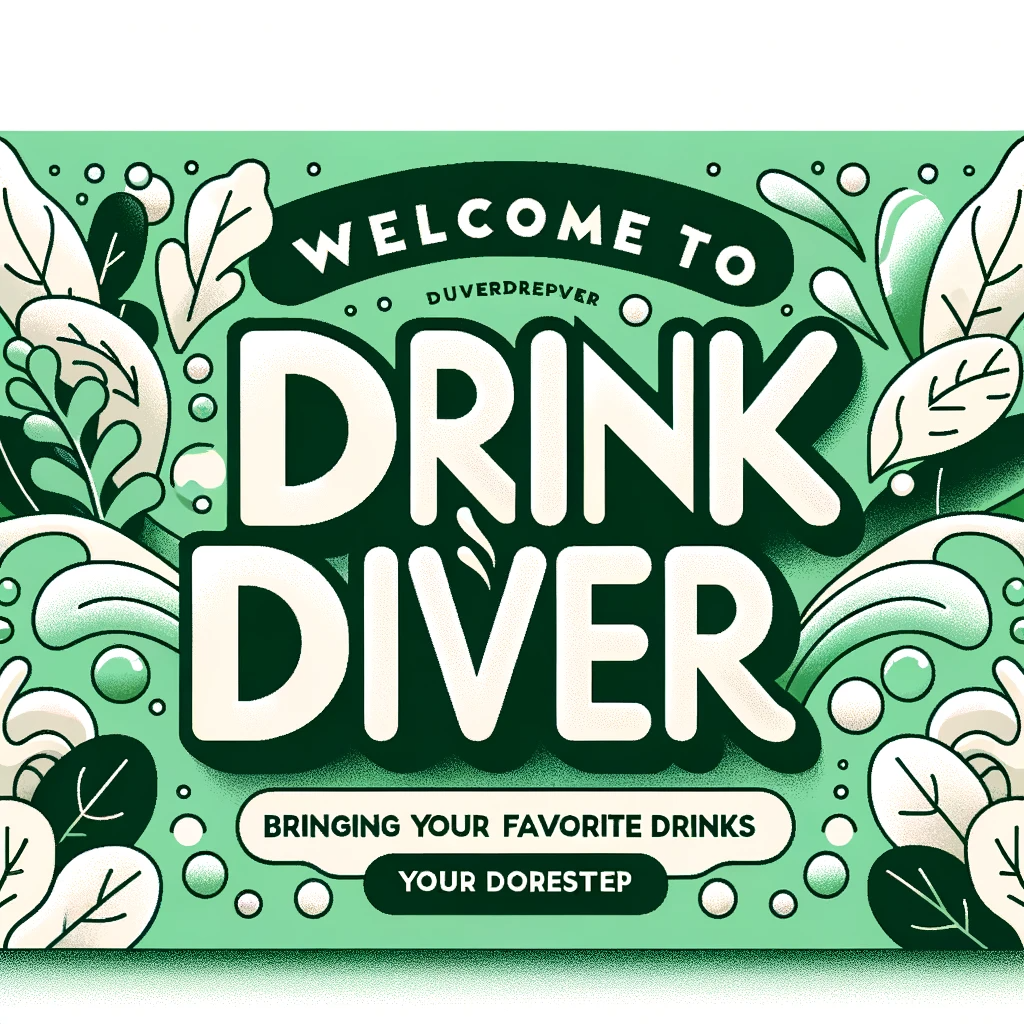
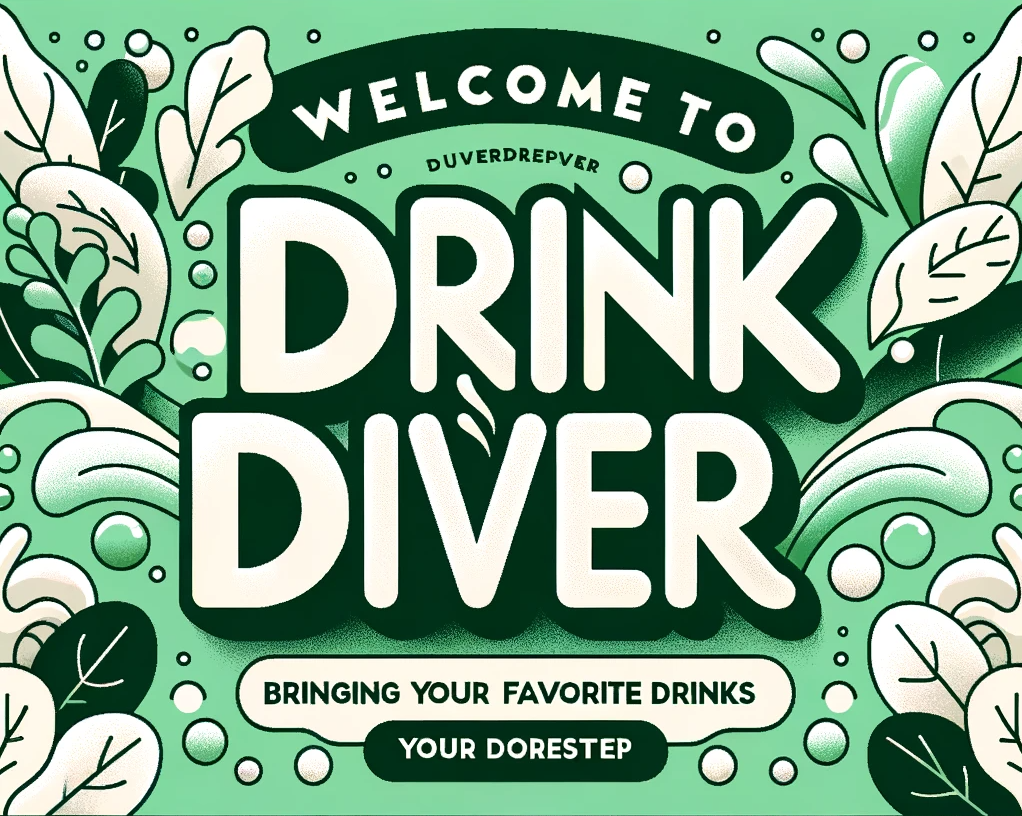
changes to home page and add styling

diff --git a/src/components/Home.js b/src/components/Home.js
@@ -3,20 +3,24 @@ import { Link } from "react-router-dom"
 export default function Home() {
     return (
         <div>
-            <h1>Home</h1>
-            <img src="./images/Welcome.png" alt="Welcome"/>
-            <div>
-                <Link to={'/vendors'}>
-                    <button>View Vendors</button>
+            <img src= {require("./images/Welcome.png")} height={ 350 } width={ 400 } alt="Welcome" className="welcome"/>
+            
+            <div className="home">
+                <br />
+                <Link to={'/vendors'} className="link">
+                    View Vendors
                 </Link>
-                <Link to={'/brews'}>
-                    <button>House Brews</button>
+                <br />
+                <Link to={'/brews'} className="link">
+                    House Brews
                 </Link>
-                <Link to={'/about'}>
-                    <button>About</button>
+                <br />
+                <Link to={'/about'} className="link">
+                    About
                 </Link>
-                <Link to={'/signup'}>
-                    <button>Don't have an account? Sign up here!</button>
+                <br />
+                <Link to={'/signup'} className="link">
+                    Don't have an account? Sign up here!
                 </Link>
             </div>
 

diff --git a/src/App.js b/src/App.js
@@ -5,6 +5,7 @@ import About from './components/About';
 import Cart from './components/Cart';
 import Login from './components/Login';
 import Signup from './components/Signup';
+import Vendors from './components/Vendors';
 import { Route, Router, Routes } from 'react-router-dom';
 
 function App() {
@@ -18,7 +19,7 @@ function App() {
           <Route path="/cart" element={<Cart />} />
           <Route path="/login" element={<Login />} />
           <Route path="/signup" element={<Signup />} />
-          {/* <Route path="/vendors" element={<Vendors />} /> */}
+          <Route path="/vendors" element={<Vendors />} />
 
         </Routes>
       </div>

diff --git a/src/components/Vendors.js b/src/components/Vendors.js
@@ -1,7 +1,7 @@
 import React, { useEffect, useState } from 'react';
 import { useNavigate, Link } from 'react-router-dom';
-import './style.css';
-import Navbar from './Navbar';
+// import './style.css';
+// import Navbar from './Navbar';
 
 
 const vendors = [
@@ -11,4 +11,10 @@ const vendors = [
     { id: 4, name: 'Texan Drafthouse' },
   ];
 
-  export default vendors;
+  export default function Vendors() {
+    return (
+        <div>
+            <h1>Vendors</h1>
+        </div>
+    );
+}

diff --git a/src/style.css b/src/style.css
@@ -28,6 +28,18 @@ h1 {
     width: 700px;
 }
 
+.welcome {
+    border-radius: 1rem;
+    border: black 4px solid;
+}
+
+.home {
+    display: flex;
+    flex-direction: column;
+    justify-content: center;
+    
+}
+
 .email, .password, .submit, .name, .link, p {
     background-color: white;
     padding: 1rem;
@@ -38,6 +50,7 @@ h1 {
     width: 700px;
     text-align: center;
     text-decoration: none;
+    color: black;
 }
 
 .container {

diff --git a/src/components/Signup.js b/src/components/Signup.js
@@ -25,7 +25,7 @@ export default function Signup() {
         </button>
       </form>
       <br />
-      <Link to="" className='link'>Vendor?</Link>
+      <Link to="/vendors" className='link'>Vendor?</Link>
     </div>
   );
 }
